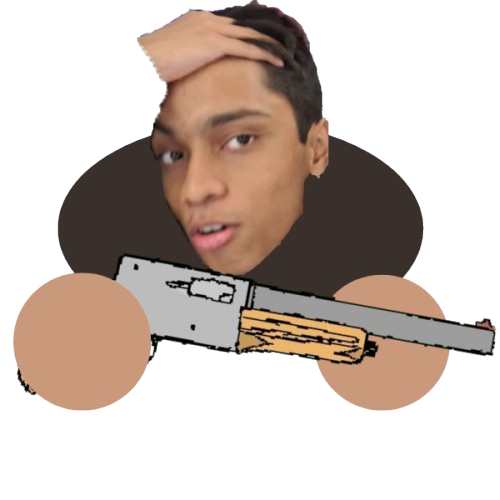
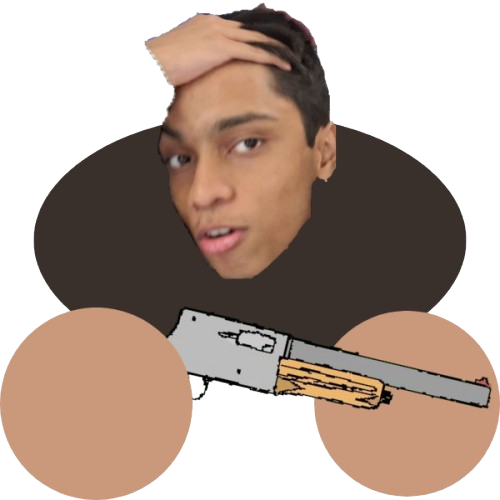
Still fixing calcgun

diff --git a/script.js b/script.js
@@ -2,16 +2,23 @@ const player = document.getElementById("player");
 const gameArea = document.getElementById("gameArea");
 sanity = 50;
 const ShotgunCooldown = 1100; // milliseconds
+const CalcgunCooldown = 1500;
 sanityTimer = 0;
 puzzlecooldown = 5000;
 healthCount = 0;
+scoreBoostCount = 0;
 tankCount = 0;
 showerCount = 0;
 spawntime = 0;
 elapsed = 0;
 shanstate = 2;
+CurrWeap = 1;
 Filename = "ShansStand/"
+CalcgunVelocity = 
 //2000
+
+Hmessagetimer = 0
+SBmessagetimer = 0
 
 const ouch = new Audio('Ouch.mp3'); // Replace with your sound file path
 const ShotgunSound = new Audio('ShotgunSound.mp3');
@@ -123,6 +130,15 @@ document.addEventListener("keydown", e => {keysPressed[e.key.toLowerCase()] = tr
         for (let key in keysPressed) {
             keysPressed[key] = false;
         }
+        try {
+            const healthMsg = document.getElementById("HealthMessage");
+            if (healthMsg) healthMsg.remove();
+
+            const sbMsg = document.getElementById("SBMessage");
+            if (sbMsg) sbMsg.remove();
+        } catch (e) {
+
+        }
 }
 
 });
@@ -179,6 +195,15 @@ document.addEventListener("keyup", e => {keysPressed[e.key.toLowerCase()] = fals
             sanity = 100;
         }
         console.log(sanity)
+        try {
+            const healthMsg = document.getElementById("HealthMessage");
+            if (healthMsg) healthMsg.remove();
+
+            const sbMsg = document.getElementById("SBMessage");
+            if (sbMsg) sbMsg.remove();
+        } catch (e) {
+
+        }
         for (let key in keysPressed) {
             keysPressed[key] = false;
         }
@@ -302,10 +327,10 @@ class Tank {
         }
     }
 }
-
+Atdelay = 0;
 Mult = 1
 Boost = false
-
+scoreBoostCount = 0;
 
 class HealPickup {
     constructor(x, y) {
@@ -353,6 +378,7 @@ let lastFrameTime = 0;
 const fps = 60;
 const frameDuration = 1000 / fps;
 scoreBoostCount = 0;
+attackingDelay = 0
 
 function update(timestamp) {
   try {
@@ -383,20 +409,67 @@ function update(timestamp) {
             Mult = true;
         }
 
-    if (keysPressed[" "] && attack == false) {
-        attack = true;
-        console.log("attack!")
-        FirstAttack = true;
+        if (CurrWeap == 1 && !attack) {
+            player.src = "Player.png"
+        }
+        if (CurrWeap == 2 && !attack) {
+            player.src = "Player2.png"
+        }
 
-
-        setTimeout(() => {
-            attack = false;
-        }, ShotgunCooldown);
-    }
-
+        if (SBmessagetimer >= 60) {
+            try {
     
+                const sbMsg = document.getElementById("SBMessage");
+                if (sbMsg) sbMsg.remove();
+            } catch (e) {
+    
+            }
+        }
+        if (Hmessagetimer >= 60) {
+            try {
+                const healthMsg = document.getElementById("HealthMessage");
+                if (healthMsg) healthMsg.remove();
+
+            } catch (e) {
+    
+            }
+        }
+
+        
+        if (keysPressed["1"] && CurrWeap != 1) {
+            CurrWeap = 1;
+            attack = false;
+            Atdelay = 40;
+            attackingDelay = 20000;
+            }
+            
+        if (keysPressed["2"] && CurrWeap != 2) {
+            CurrWeap = 2;
+            attack = false;
+            Atdelay = 40;
+            attackingDelay = 20000;
+            }
+                
+        Atdelay--
+        attackingDelay++
+        
+        
+        if (attack && attackingDelay >= ShotgunCooldown/1000 * 60 && CurrWeap == 1) {
+            attack = false 
+        }
+        if (attack && attackingDelay >= CalcgunCooldown/1000 * 60 && CurrWeap == 2) {
+            attack = false 
+        }
 
 
+        if (keysPressed[" "] && attack == false && Atdelay <= 0) {
+            attack = true;
+            console.log("attack!")
+            FirstAttack = true;
+            attackingDelay = 0;
+        }
+                
+                
     if (keysPressed["w"] || keysPressed["arrowup"]) {
         if (y >= 50) {
 
@@ -495,17 +568,26 @@ function update(timestamp) {
 
     player.style.left = `${x}px`;
     player.style.top = `${y}px`;
-    player.src = "Player.png";
+    //player.src = "Player.png";
     player.style.transform = `translate(-50%, -50%) rotate(${directionAngles[direction]}deg)`;
 
     if (attack) {
-        player.src = "PlayerAttacking.png";
+        if (CurrWeap == 1) {
+            player.src = "PlayerAttacking.png";
+        } else if (CurrWeap == 2) {
+
+            player.src = "PlayerAttacking2.png";
+        }
+        
+        
         player.style.transform = `translate(-50%, -50%) rotate(${directionAngles[direction]}deg)`;
     }
 
     // --- Charger Spawning ---
     if (spawntime > 50) {
-        if (Math.random()*100 < 1 && chargerCount<7) { // ~1% chance per frame
+        spawnEnemy = Math.random()*100
+
+        if (spawnEnemy < 1 && chargerCount<7) { // ~1% chance per frame
           let ex = Math.random() * 520 + 40; // inside game area
           let ey = Math.random() * 520 + 40;
           enemies.push(new Charger(ex, ey, 2, 400*(0.9+Wave/10)**2, 5, "Dom.png", 50, 50)); // speed = 2
@@ -513,7 +595,7 @@ function update(timestamp) {
           chargerCount++;
           spawntime = 0;
         }
-        if (Math.random()*100 <1.2 && Math.random()*100 > 1 && healthCount<2 && elapsed > 600) { // ~1% chance per frame
+        if (spawnEnemy <1.3 && spawnEnemy > 1 && healthCount<2 && elapsed > 600) { // ~1% chance per frame
           let ex = Math.random() * 520 + 40; // inside game area
           let ey = Math.random() * 520 + 40;
           enemies.push(new HealPickup(ex, ey)); // speed = 2
@@ -521,7 +603,7 @@ function update(timestamp) {
           enemyCount++;
           spawntime = 0;
         }
-        if (Math.random()*100 < 1.5 && Math.random()*100 > 1.4 && tankCount<3 && Wave>1) { // ~1% chance per frame
+        if (spawnEnemy < 1.6 && spawnEnemy > 1.3 && tankCount<3 && Wave>1) { // ~1% chance per frame
           let ex = Math.random() * 520 + 40; // inside game area
           let ey = Math.random() * 520 + 40;
           enemies.push(new Charger(ex, ey, 0.75, 800*(0.9+Wave/10)**2, 7, "Zuk.png", 70, 70)); // speed = 2
@@ -529,7 +611,7 @@ function update(timestamp) {
           enemyCount++;
           spawntime = 0;
         }
-        if (Math.random()*100 <2 && Math.random()*100 > 1.999 && showerCount<2 && Wave>2) { // ~1% chance per frame
+        if (spawnEnemy <2 && spawnEnemy > 1.99 && showerCount<2 && Wave>2) { // ~1% chance per frame
           let ex = Math.random() * 520 + 40; // inside game area
           let ey = Math.random() * 520 + 40;
           enemies.push(new Charger(ex, ey, 0.25, 4000*(0.9+Wave/10)**2, 20, "Shower.jpg", 85, 85)); // speed = 2
@@ -537,7 +619,7 @@ function update(timestamp) {
           enemyCount++;
           spawntime = 0;
         }
-        if (Math.random()*100 < 2.03 && Math.random()*100 > 2 && scoreBoostCount<1) { // ~1% chance per frame
+        if (spawnEnemy < 2.1 && spawnEnemy > 2 && scoreBoostCount<1) { // ~1% chance per frame
           let ex = Math.random() * 520 + 40; // inside game area
           let ey = Math.random() * 520 + 40;
           enemies.push(new ScoreBoost(ex, ey)); // speed = 2
@@ -609,22 +691,47 @@ function update(timestamp) {
                 enemy.el.remove();
                 enemies.splice(idx, 1);
                 healthCount = Math.max(healthCount - 1, 0);
+                newMessage = document.createElement("p");
+                newMessage.style.position = "absolute";
+                newMessage.id = "HealthMessage"
+
+                newMessage.style.transform = `translate(-50%, -50%)`;
+                newMessage.style.top = "5%";
+                newMessage.style.left = "25%";
+                gameArea.appendChild(newMessage)
+                document.getElementById("HealthMessage").innerHTML = "Picked up a healing Shaunulator"
+                Hmessagetimer = 0;
+                if (playerhp < 40) {
+                    newMessage.style.top = "5%";
+                    newMessage.style.left = "37%";
+                    document.getElementById("HealthMessage").innerHTML = "Picked up a healing Shaunulator that you really need!"
+                }
+                
+
+                setTimeout(() => {
+                    newMessage.remove()
+                }, 1000);
             } else if (enemy instanceof ScoreBoost) {
                 
                 Boost = true;
                 BoostTime = 0;
                 enemy.el.remove();
                 enemies.splice(idx, 1);
-                healthCount = Math.max(scoreBoostCount - 1, 0);
+                scoreBoostCount = Math.max(scoreBoostCount - 1, 0);
                 newMessage = document.createElement("p");
                 newMessage.style.position = "absolute";
-                newMessage.id = "SystemMessage"
-
+                newMessage.id = "SBMessage"
+                SBmessagetimer = 0;
                 newMessage.style.transform = `translate(-50%, -50%)`;
                 newMessage.style.top = "2%";
                 newMessage.style.left = "20%";
                 gameArea.appendChild(newMessage)
-                document.getElementById("SystemMessage").innerHTML = "You got the score boost!"
+                document.getElementById("SBMessage").innerHTML = "You got the score boost!"
+                
+
+                setTimeout(() => {
+                    newMessage.remove()
+                }, 1000);
 
                 
 
@@ -743,8 +850,8 @@ function update(timestamp) {
 
         }
 
-        el.style.height = "65px";
-        el.style.width = "100px";
+        el.style.height = "85px";
+        el.style.width = "130px";
         el.id = "ShotgunShot";
         el.style.backgroundImage = "url('ShotgunShot.png')";
         el.style.backgroundSize = "cover";
@@ -752,13 +859,13 @@ function update(timestamp) {
         gameArea.appendChild(el);
 
         switch (direction) {
-            case "n": el.style.left = `${x}px`; el.style.top = `${y-50}px`; break;
-            case "ne": el.style.left = `${x+40}px`; el.style.top = `${y-50}px`; break;
-            case "e": el.style.left = `${x+55}px`; el.style.top = `${y-7}px`; break;
-            case "se": el.style.left = `${x+40}px`; el.style.top = `${y+50}px`; break;
-            case "s": el.style.left = `${x}px`; el.style.top = `${y+55}px`; break;
-            case "sw": el.style.left = `${x-50}px`; el.style.top = `${y+50}px`; break;
-            case "w": el.style.left = `${x-55}px`; el.style.top = `${y-7}px`; break;
+            case "n": el.style.left = `${x}px`; el.style.top = `${y-70}px`; break;
+            case "ne": el.style.left = `${x+45}px`; el.style.top = `${y-60}px`; break;
+            case "e": el.style.left = `${x+75}px`; el.style.top = `${y-7}px`; break;
+            case "se": el.style.left = `${x+50}px`; el.style.top = `${y+60}px`; break;
+            case "s": el.style.left = `${x}px`; el.style.top = `${y+75}px`; break;
+            case "sw": el.style.left = `${x-50}px`; el.style.top = `${y+55}px`; break;
+            case "w": el.style.left = `${x-65}px`; el.style.top = `${y-7}px`; break;
             case "nw": el.style.left = `${x-50}px`; el.style.top = `${y-50}px`; break;
         }
 
@@ -775,16 +882,16 @@ function update(timestamp) {
                             shotRect.top > enemyRect.bottom);
 
             if (overlap) {
-                enemy.enemyHP -= (900*sanity/100)+ (score/100) * (sanity/100);
+                enemy.enemyHP -= (1100*sanity/100)+ (score/100) * (sanity/100);
                 if (enemy.enemyHP <= 0) {
                     enemy.el.remove();
-                    score += 250;
+                    score += 250*Mult;
                     domDeath.play();
                     if (enemy.fileName == "Zuk.png") {
-                        score += 250;
+                        score += 250*Mult;
                         tankCount -= 1;
                     } else if (enemy.fileName == "Shower.jpg") {
-                        score += 750;
+                        score += 750*Mult;
                         showerCount -= 1;
                     } else {
                         chargerCount--
@@ -837,6 +944,7 @@ function update(timestamp) {
         healthCount = 0;
         enemyCount = 0;
         showerCount = 0;
+        scoreBoostCount = 0;
         tankCount = 0;
 
         console.log("Game Reset!");
